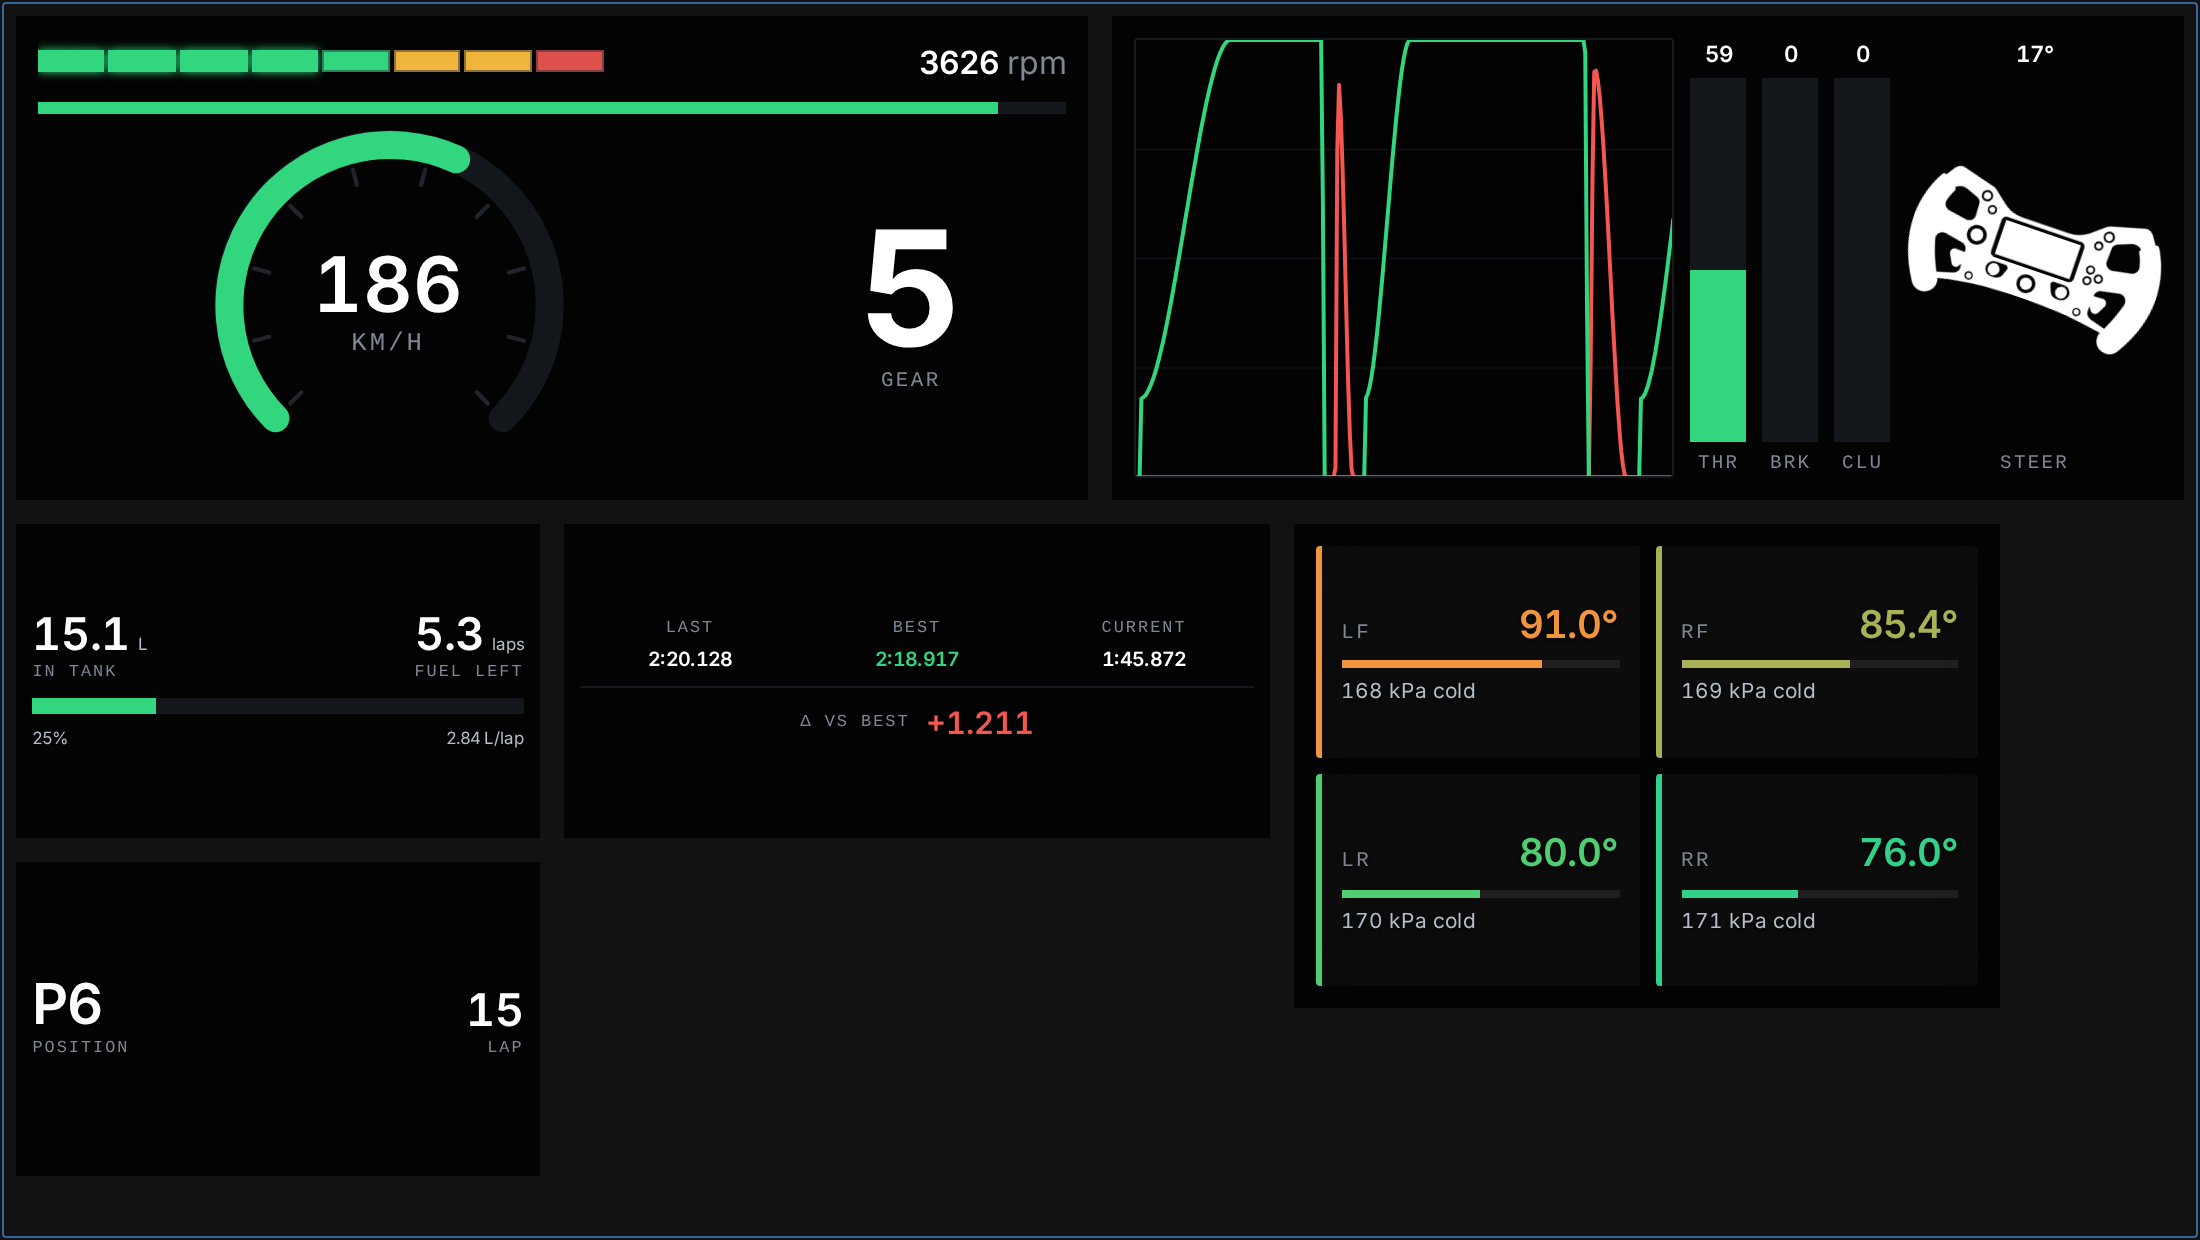
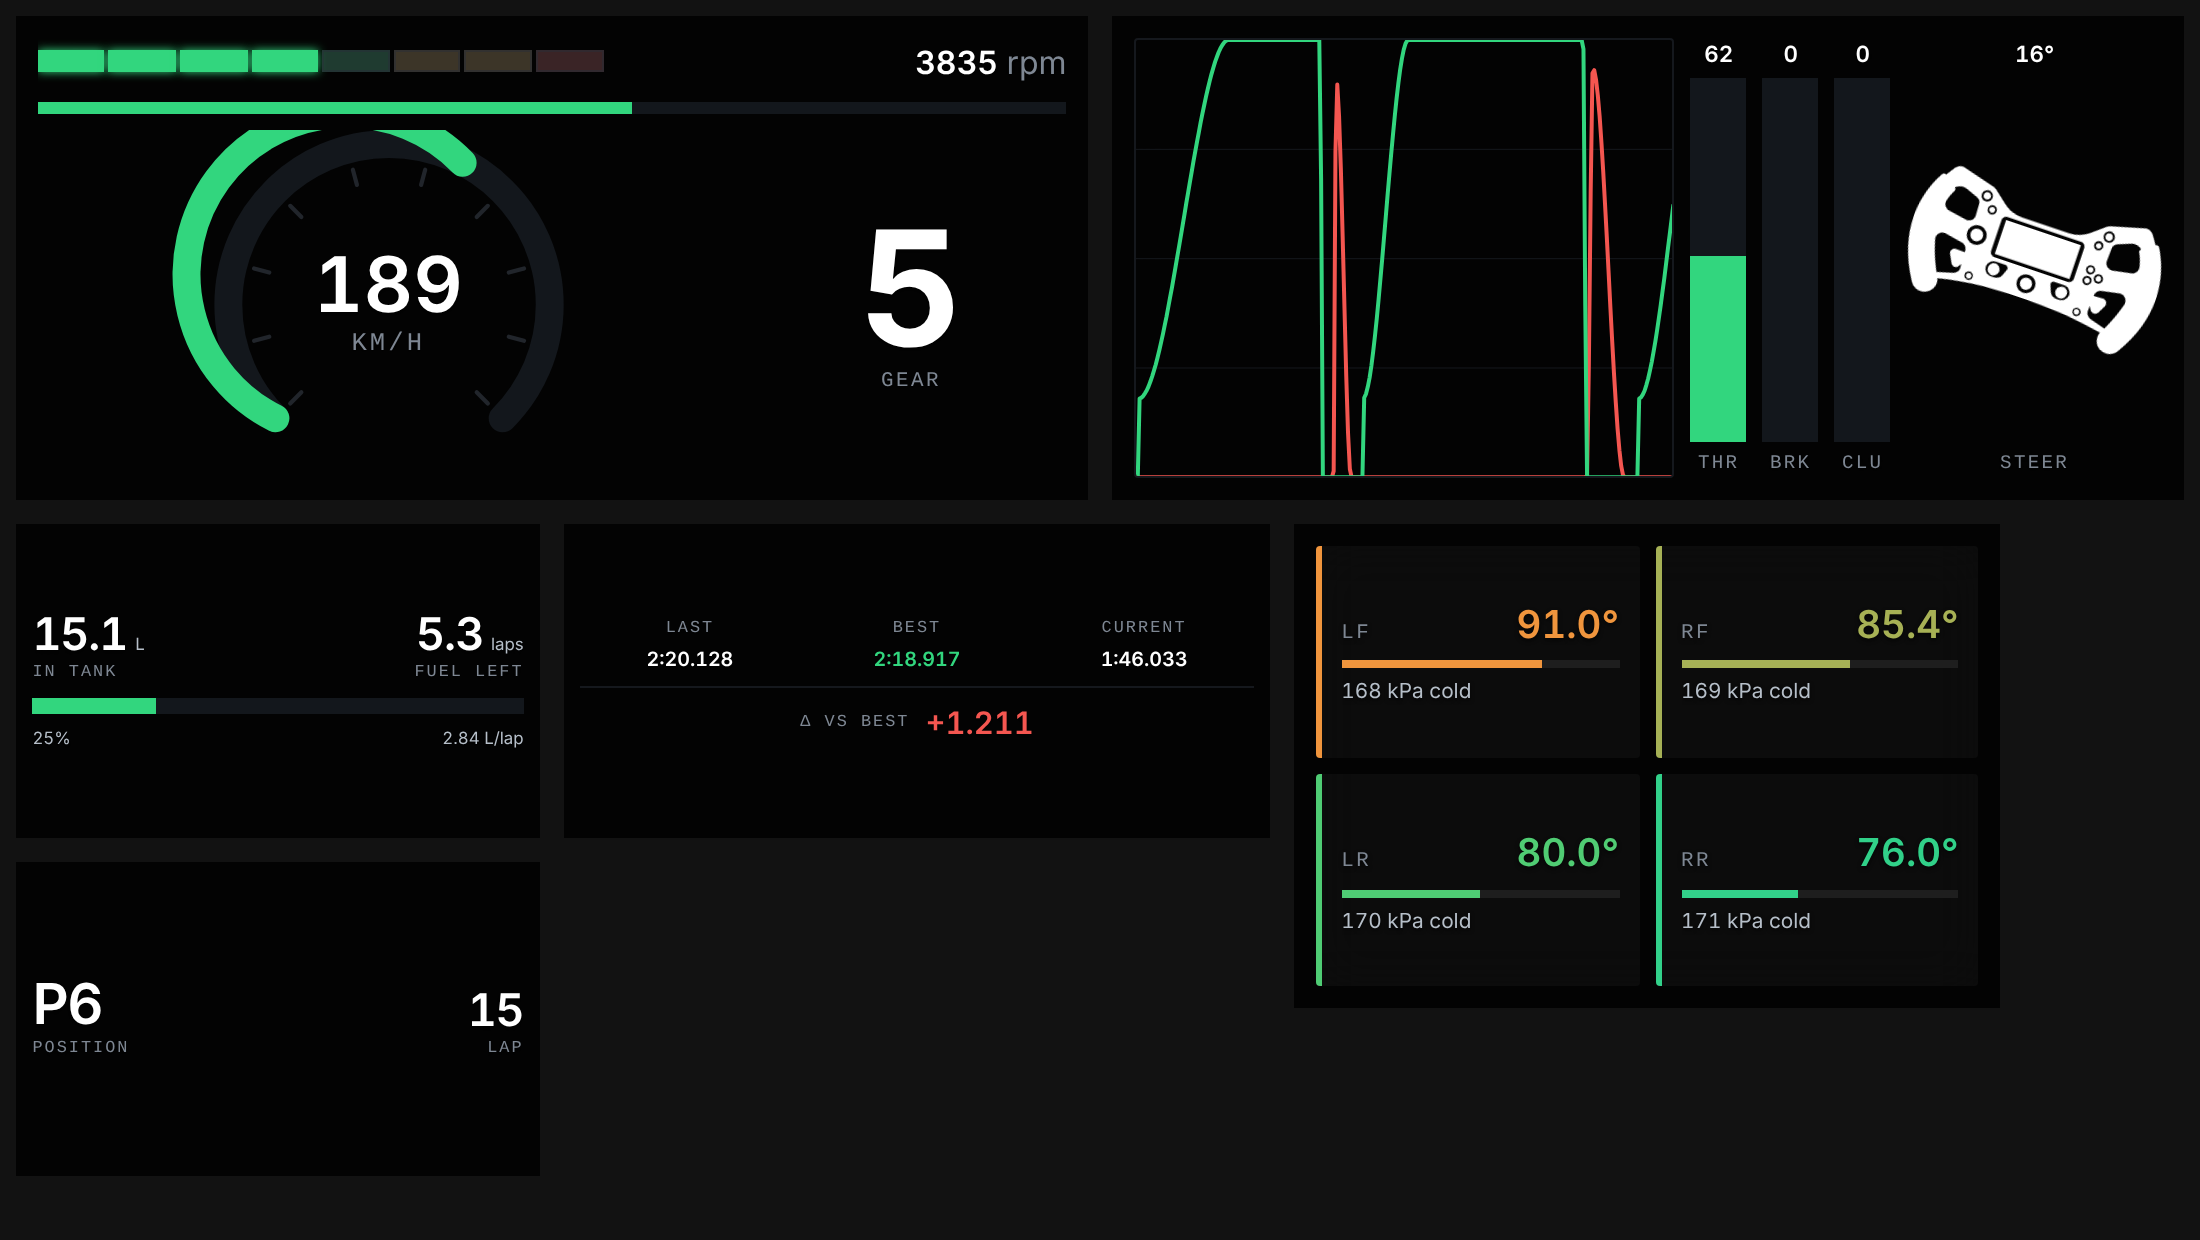
docs(site): re-shoot the manager, dashboard and fuel captures for 1.16
The remaining captures, re-shot on the same mock feed so every image on the
page comes from the release it ships with. None of these screens changed in
this release; only the live values moved. The manager's alt text follows its
speed gauge (202 km/h); the fuel capture landed on the same figures its alt
text already quotes, re-read and confirmed.

Claude-Session: https://claude.ai/code/session_01CZAwkkcTyHKSVHU2XnUU5e

diff --git a/site/index.html b/site/index.html
@@ -495,7 +495,7 @@
               alt="The Overlay Manager: a left rail listing Dashboard, Standings,
                    Relative and Fuel Calc, a column of widget and appearance
                    settings in the middle, and a live scaled preview of the
-                   dashboard overlay on the right — its speed gauge reading 187
+                   dashboard overlay on the right — its speed gauge reading 202
                    km/h in fifth, and a throttle and brake trace below it."
             />
           </figure>
